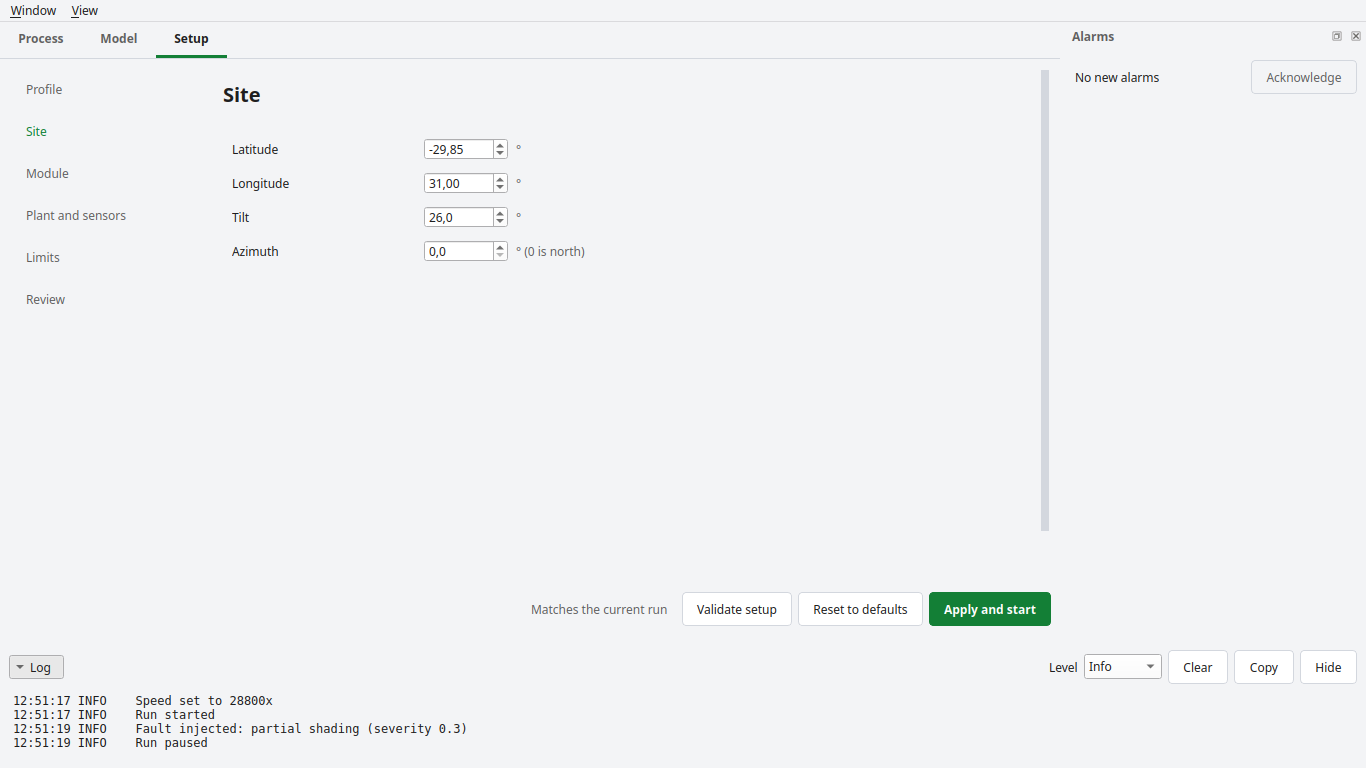
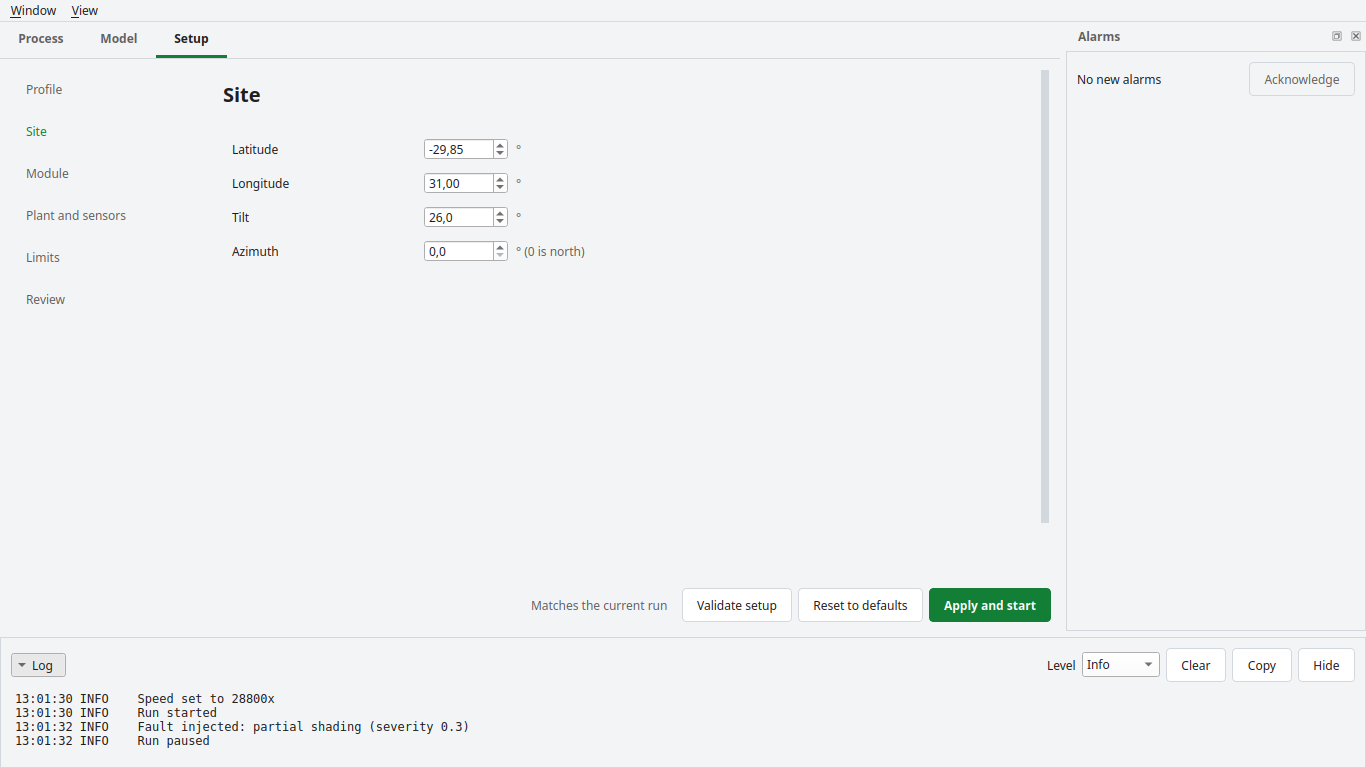
Separate the panes with hairline borders

diff --git a/src/pvysics/gui/log_pane.py b/src/pvysics/gui/log_pane.py
@@ -29,6 +29,7 @@ from PyQt6.QtWidgets import (
 from pvysics.gui.log_bridge import LogBridge
 from pvysics.gui.palette import Palette
 from pvysics.gui.theme import ThemeManager
+from pvysics.gui.ui_helpers import pane
 from pvysics.log_model import LogEntry, format_entry
 
 LEVEL_CHOICES = (
@@ -108,7 +109,8 @@ class LogPane(QDockWidget):
         layout.addWidget(self.text_view, 1)
         content = QWidget()
         content.setLayout(layout)
-        self.setWidget(content)
+        self._content = content
+        self.setWidget(pane(content))
 
         bridge.updated.connect(self._mark_dirty)
         theme.changed.connect(self._on_palette_changed)
@@ -134,8 +136,9 @@ class LogPane(QDockWidget):
         """Give the dock its height for the current state: the header when collapsed, else a few lines."""
         window = self.parentWidget()
         if isinstance(window, QMainWindow):
-            self.widget().layout().invalidate()  # a list shown or hidden changes the layout's size hint
-            self.widget().layout().activate()
+            for layout in (self._content.layout(), self.widget().layout()):
+                layout.invalidate()  # a list shown or hidden changes the layout's size hint
+                layout.activate()
             window.resizeDocks([self], [self.sizeHint().height()], Qt.Orientation.Vertical)
 
     def sizeHint(self) -> QSize:

diff --git a/src/pvysics/gui/dashboard.py b/src/pvysics/gui/dashboard.py
@@ -33,7 +33,7 @@ from pvysics.gui.live_charts import LiveCharts
 from pvysics.gui.palette import STATE_COLOURS, STATE_TEXT_COLOURS, Palette
 from pvysics.gui.metric_strip import GAUGE_SCALE_FACTOR, MetricStrip
 from pvysics.gui.process_view import format_readings
-from pvysics.gui.ui_helpers import CompactPlot
+from pvysics.gui.ui_helpers import CompactPlot, pane
 from pvysics.gui.theme import ThemeMenu, style_plot
 from pvysics.gui.validation_view import ValidationView
 from pvysics.run import Event, RunConfig, Sample, State, Thresholds
@@ -403,5 +403,5 @@ def _dock(title: str, widget: QWidget) -> QDockWidget:
     """A chart as a dock: movable, floatable and closable, with its title in a flat title bar."""
     dock = QDockWidget(title)
     dock.setObjectName(f"dock_{title}")
-    dock.setWidget(widget)
+    dock.setWidget(pane(widget))
     return dock

diff --git a/src/pvysics/gui/ui_helpers.py b/src/pvysics/gui/ui_helpers.py
@@ -31,6 +31,16 @@ def role_label(text: str, role: str, alignment=None) -> QLabel:
     return label
 
 
+def pane(widget: QWidget) -> QFrame:
+    """Wrap a dock's content in a hairline border, so neighbouring panes read as separate."""
+    frame = QFrame()
+    frame.setProperty("pane", "true")
+    layout = QHBoxLayout(frame)
+    layout.setContentsMargins(1, 1, 1, 1)
+    layout.addWidget(widget)
+    return frame
+
+
 def unit_row(field: QWidget, unit: str) -> QWidget:
     """A field with its unit in a muted label beside it, so the number field holds only the number."""
     row = QWidget()

diff --git a/src/pvysics/gui/main_window.py b/src/pvysics/gui/main_window.py
@@ -11,6 +11,7 @@ from pvysics.gui.model_view import ModelView
 from pvysics.gui.process_view import ProcessView
 from pvysics.gui.setup_view import SetupView
 from pvysics.gui.theme import ThemeMenu
+from pvysics.gui.ui_helpers import pane
 from pvysics.run import RunConfig
 
 log = logging.getLogger(__name__)
@@ -94,5 +95,5 @@ class MainWindow(QMainWindow):
 def _dock(title: str, widget: QWidget) -> QDockWidget:
     dock = QDockWidget(title)
     dock.setObjectName(f"dock_{title}")
-    dock.setWidget(widget)
+    dock.setWidget(pane(widget))
     return dock

diff --git a/src/pvysics/gui/style.py b/src/pvysics/gui/style.py
@@ -41,7 +41,8 @@ QGroupBox::title {{
 }}
 
 QDockWidget {{ color: {p.muted_text}; font-weight: 600; }}
-QDockWidget::title {{ background: transparent; text-align: left; padding: 6px 2px; }}
+QFrame[pane="true"] {{ border: 1px solid {p.card_border}; }}
+QDockWidget::title {{ background: transparent; text-align: left; padding: 6px 8px; }}
 
 QLabel[role="caption"] {{ color: {p.muted_text}; font-size: 9pt; }}
 QLabel[role="muted"] {{ color: {p.muted_text}; }}
